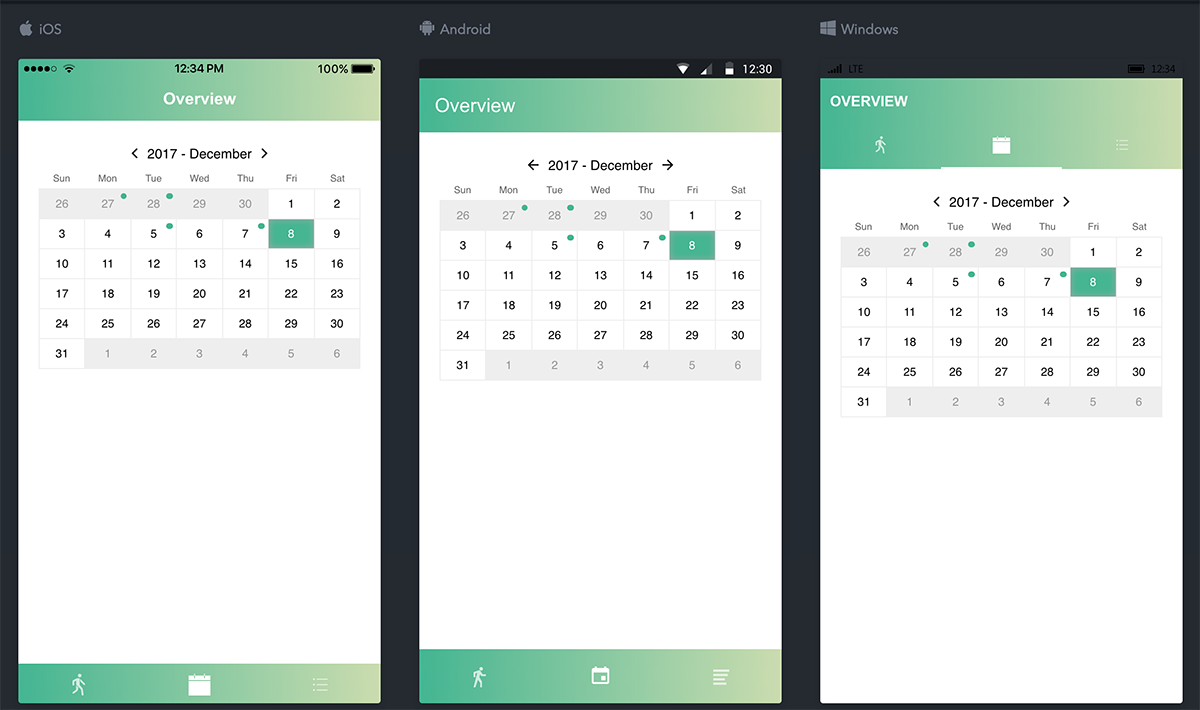
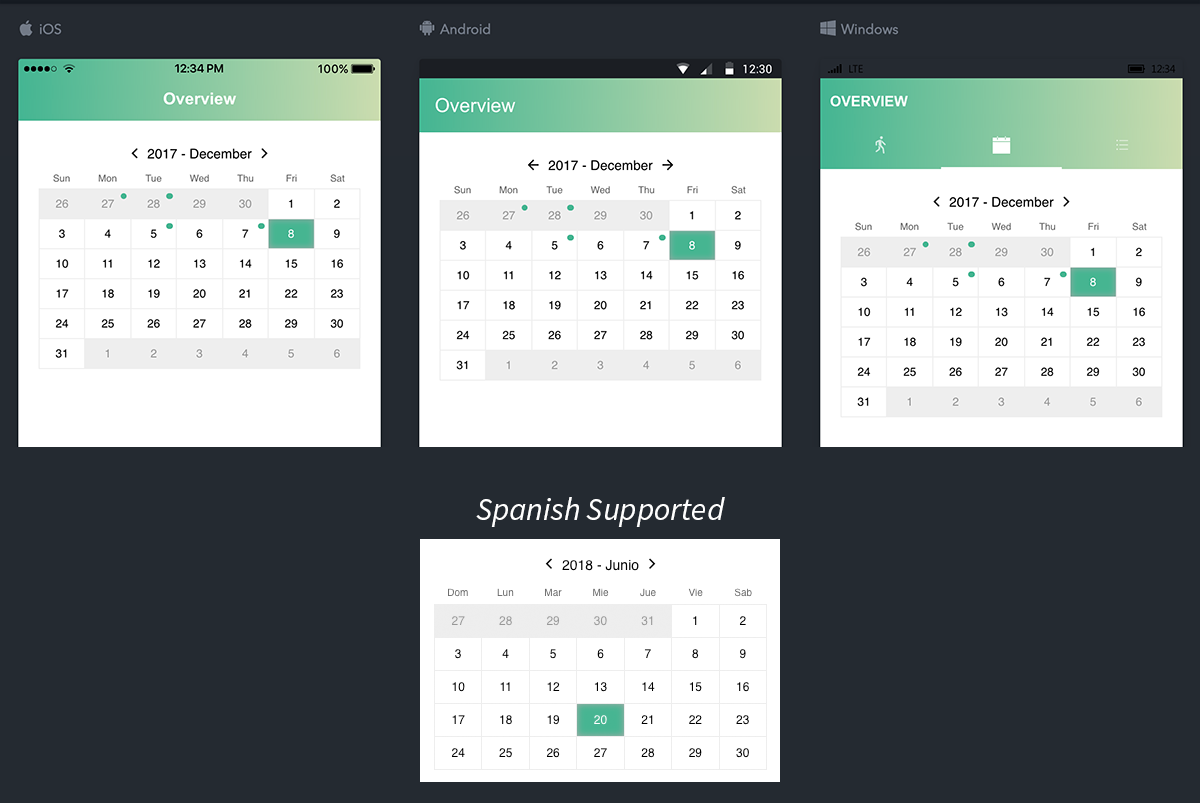
Update for lang property clarity on readme

diff --git a/README.md b/README.md
@@ -1,4 +1,4 @@
-# Ionic Calendar (English)
+# Ionic Calendar (English and Spanish)
 
 ![image](https://raw.githubusercontent.com/gbrits/ionic-calendar/master/calendar.png?raw=true)
 
